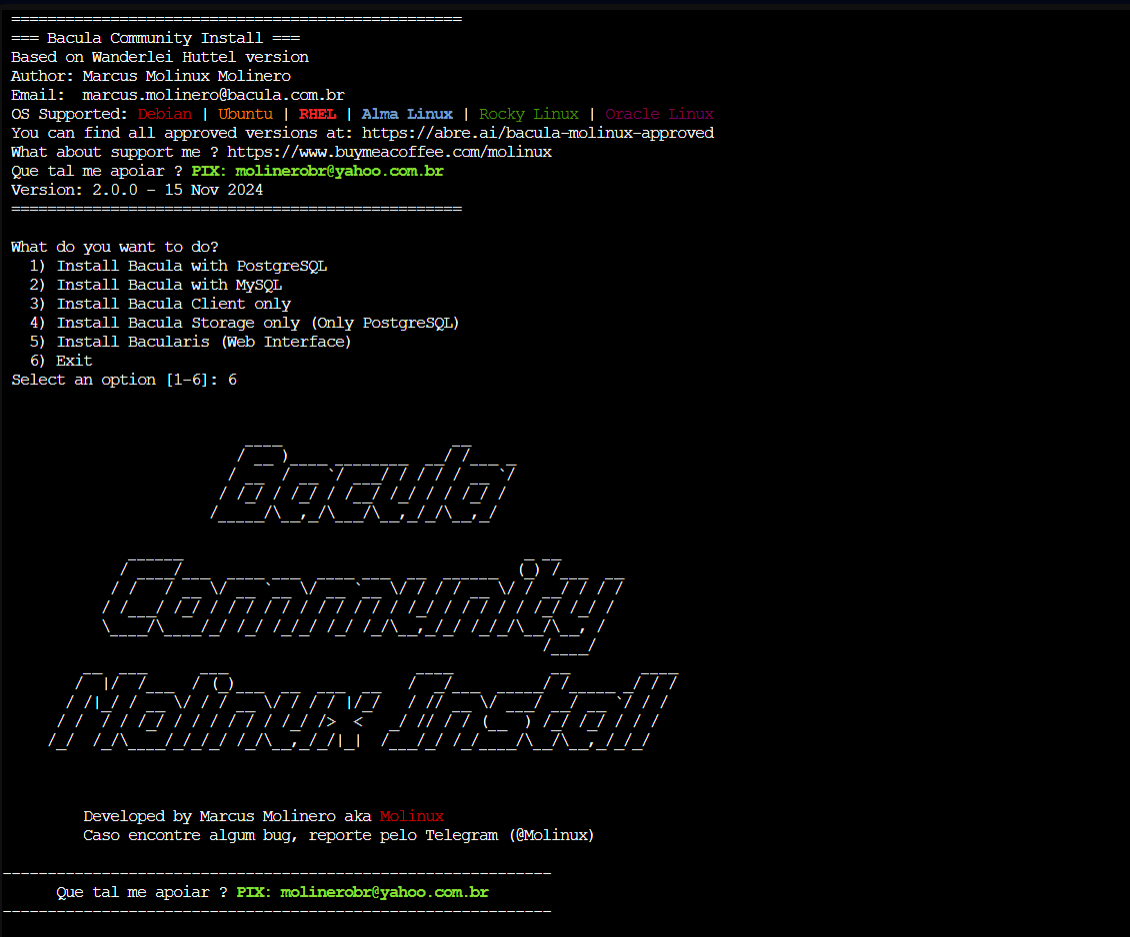
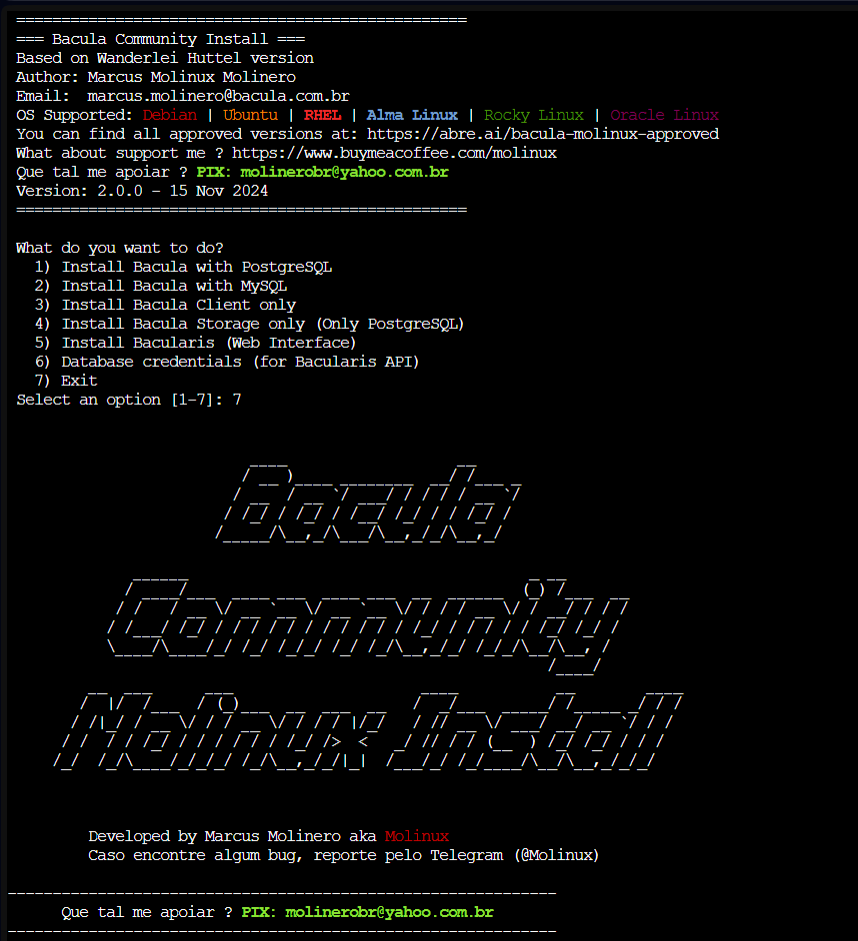
correct readme ?

diff --git a/bacula-install/README.md b/bacula-install/README.md
@@ -121,17 +121,23 @@ bacularis_pass="sdlfgsdfg-WEWERTBsdfsdfg"
 
 Or you can specify during the installation
 
-
+```bash
+--------------------------------------------------
+ Inform your Bacula Key
+ This key is obtained with a registration in Bacula.org.
+ https://www.bacula.org/bacula-binary-package-download/
+ Please, fill with your Bacula Key: 
+```
 
 ### Installation
 
 _Below is an example of how you can instruct your audience on installing and setting up your app. This template doesn't rely on any external dependencies or services._
 
-1. Get a free API Key at [https://example.com](https://example.com)
+1. Create you account at [bacula.org](https://www.bacula.org/bacula-binary-package-download/) and [bacularis.app](https://users.bacularis.com/user/login/)
 2. Clone the repo
 
    ```sh
-   git clone https://github.com/your_username_/Project-Name.git
+   git clone https://github.com/molinux/bacula_molinux_install.git
    ```
 
 3. Install NPM packages
